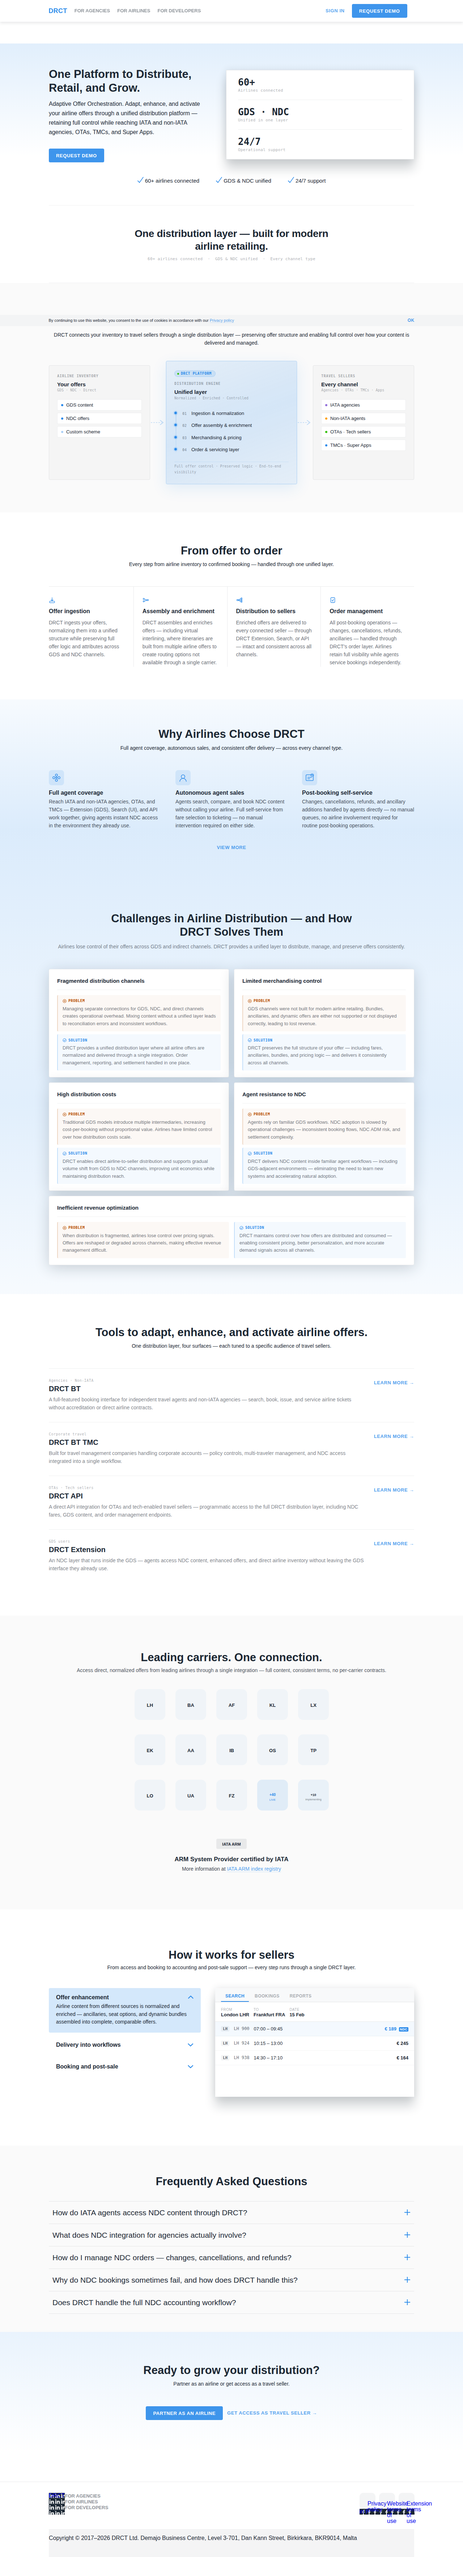
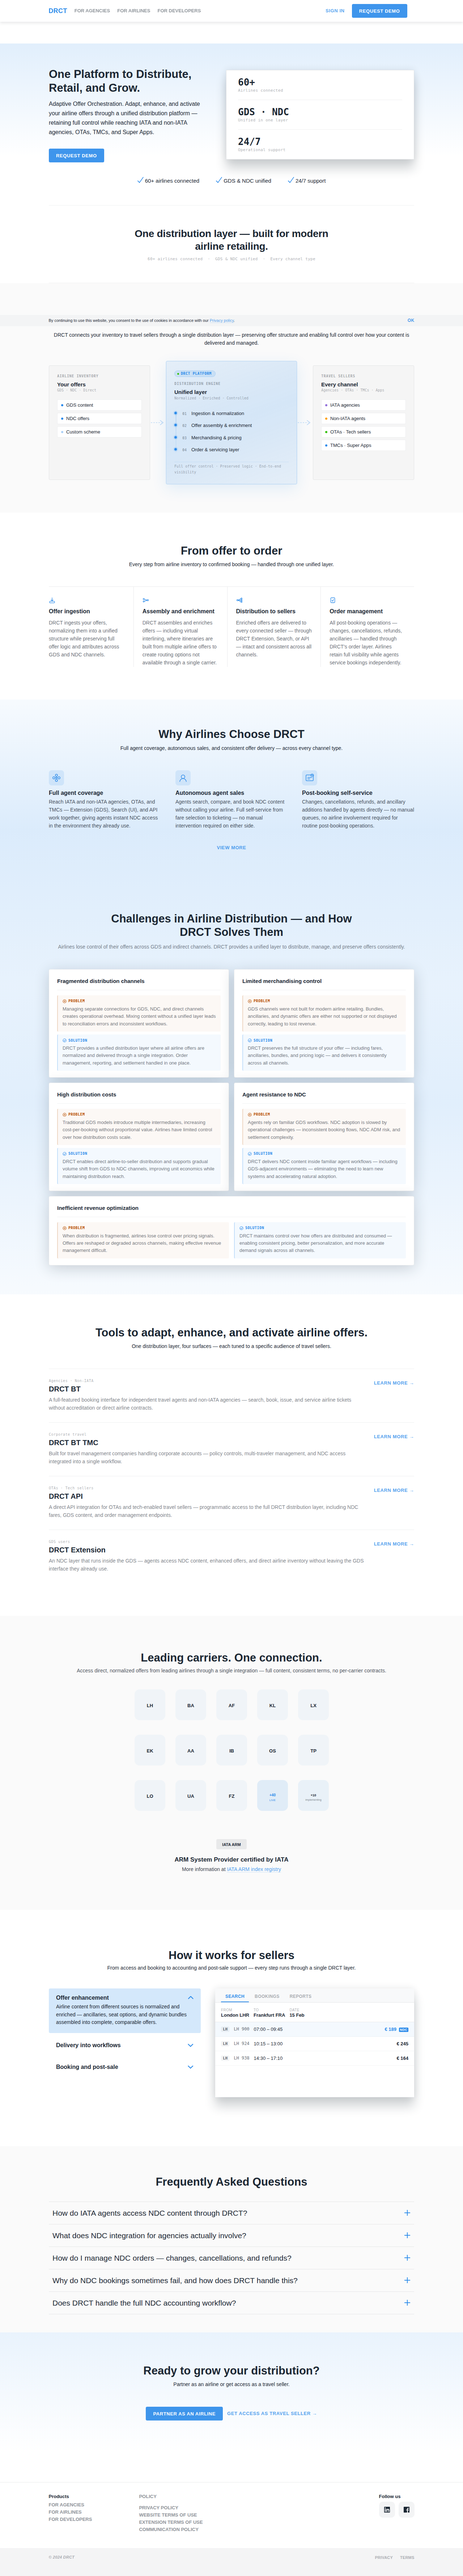
Replace custom footer with exact official DRCT footer from index.html
Replicate structure from source of truth: two-column left (Products +
Policy links) and right (Follow us + LinkedIn/Facebook icons with CSS
SVG backgrounds), plus footer__bottom bar with copyright and Privacy/
Terms links. Cookie banner also matched.

diff --git a/blocks/index.html b/blocks/index.html
@@ -1194,30 +1194,45 @@
      FOOTER
 ================================================================ -->
 <footer class="footer">
-  <div class="landing-new__body">
-    <div class="footer__top">
-      <div class="footer__left">
-        <a href="../index.html" class="footer__l">DRCT</a>
-        <ul class="footer__links">
+  <div class="footer__top">
+    <div class="footer__left">
+      <div class="footer__links">
+        <span>Products</span>
+        <ul>
           <li><a href="../index.html">For agencies</a></li>
           <li><a href="../airlines/index.html">For airlines</a></li>
           <li><a href="../developers/index.html">For developers</a></li>
         </ul>
       </div>
-      <div class="footer__right">
-        <ul class="footer__policy">
+      <div class="footer__links footer__policy">
+        <span><a href="#">Policy</a></span>
+        <ul>
           <li><a href="#">Privacy policy</a></li>
           <li><a href="#">Website terms of use</a></li>
           <li><a href="#">Extension terms of use</a></li>
+          <li><a href="#">Communication policy</a></li>
         </ul>
-        <div class="footer__f">
-          <a href="#" aria-label="LinkedIn">in</a>
-          <a href="#" aria-label="Facebook">f</a>
-        </div>
       </div>
     </div>
-    <div class="footer__bottom">
-      <p>Copyright © 2017–2026 DRCT Ltd. Demajo Business Centre, Level 3-701, Dan Kann Street, Birkirkara, BKR9014, Malta</p>
+    <div class="footer__right">
+      <span>Follow us</span>
+      <ul>
+        <li>
+          <a href="https://www.linkedin.com/company/drct/" target="_blank" rel="noopener" class="footer__l" aria-label="LinkedIn"></a>
+        </li>
+        <li>
+          <a href="https://www.facebook.com/drct.aero/" target="_blank" rel="noopener" class="footer__f" aria-label="Facebook"></a>
+        </li>
+      </ul>
+    </div>
+  </div>
+  <div class="footer__bottom">
+    <div>
+      <i>© 2024 DRCT</i>
+      <ul>
+        <li><a href="#">Privacy</a></li>
+        <li><a href="#">Terms</a></li>
+      </ul>
     </div>
   </div>
 </footer>
@@ -1225,7 +1240,7 @@
 <!-- Cookie banner -->
 <div class="cookie" id="cookieBanner" style="display:none">
   <div class="cookie__wrapper">
-    <p>By continuing to use this website, you consent to the use of cookies in accordance with our <a href="#">Privacy policy</a></p>
+    <p>By continuing to use this website, you consent to the use of cookies in accordance with our <a href="#">Privacy policy</a>.</p>
     <button id="cookieAccept">OK</button>
   </div>
 </div>
